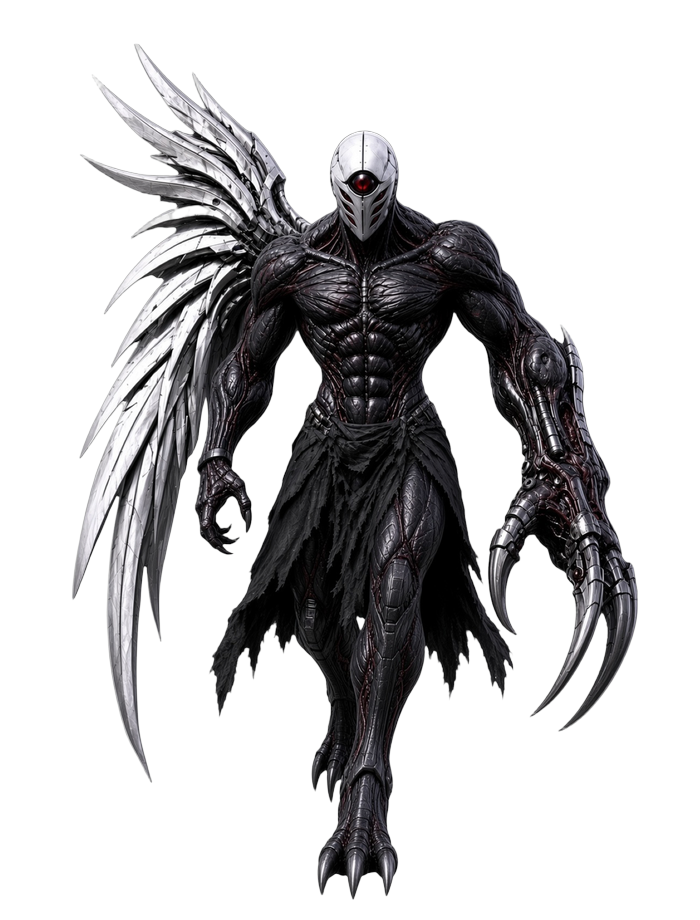
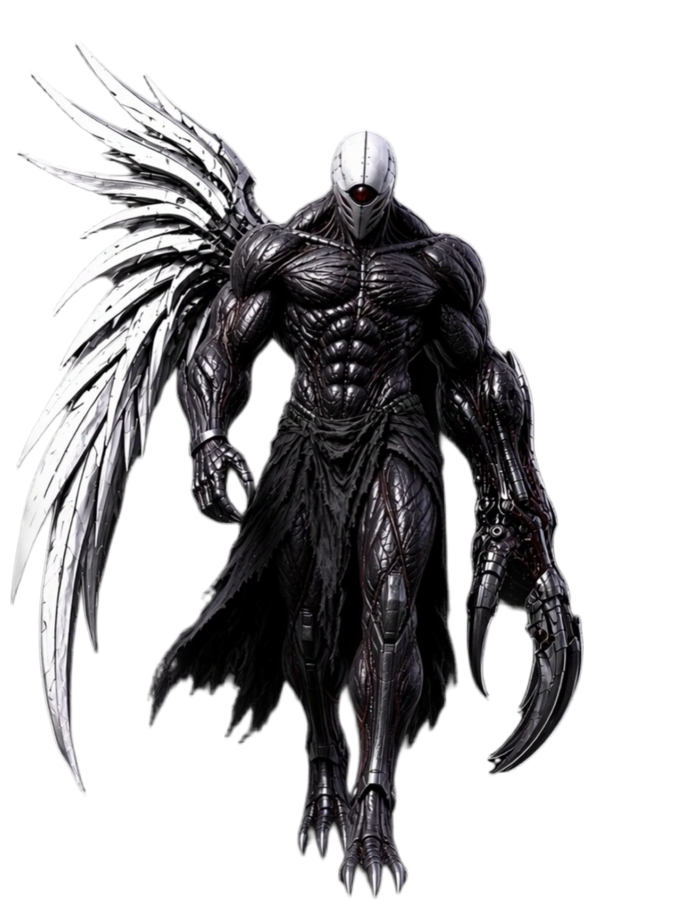
Replace GABRIEL south walk 3 frames + east/west attack images, switch south walk to a ping-pong animation cycle
- south walk (walk_south_1/2/3.png): new source art, landmark-matched
  (head/feet anchors) to the previous south walk's own on-canvas size so
  the swap introduces no size/anchor jump; south_idle/south_attack/
  south_defense are untouched per instruction.
- south walk animation now cycles 1->2->3->2->1->2->3->2->1... (ping-pong)
  instead of the old 1->2->3->1 wrap-around; frame interval unchanged;
  north/east/west walk cycles untouched.
- east/west attack release frames (attack_east_release.png,
  attack_west_release.png): new source art, landmark-matched to each old
  image's own body span/anchor (not raw bbox) since the new art's wing/
  claw proportions differ; attack timing/hitbox/damage/AI/direction logic
  is unchanged, only the two image files were replaced.
- No AI-generated/regenerated imagery and no left-right mirroring used for
  either new attack image; each keeps its own dedicated source, verified
  against the pre-existing orientation.

diff --git a/game.js b/game.js
@@ -4309,11 +4309,13 @@
     const key = DIR_TO_BOSS_KEY[boss.dir]; // north | south | east | west
     if (key === 'south') {
       if (!boss.moving) return 'south_idle';
-      // 3-frame cycle — same WALK_FRAME_PERIOD_MS per frame throughout.
-      const frame = Math.floor(now / WALK_FRAME_PERIOD_MS) % 3;
-      if (frame === 0) return 'walk_south_1';
-      if (frame === 1) return 'walk_south_2';
-      return 'walk_south_3';
+      // SOUTH alone uses a ping-pong cycle (1->2->3->2->1->2->3->2->1...)
+      // rather than the plain 1->2->3->1 wrap-around the other directions
+      // use below — a period-4 step through [1,2,3,2], same
+      // WALK_FRAME_PERIOD_MS per step as every other direction.
+      const SOUTH_WALK_PINGPONG = [1, 2, 3, 2];
+      const step = Math.floor(now / WALK_FRAME_PERIOD_MS) % SOUTH_WALK_PINGPONG.length;
+      return `walk_south_${SOUTH_WALK_PINGPONG[step]}`;
     }
     if (key === 'north') {
       if (!boss.moving) return 'north_idle';

diff --git a/assets/boss/source/MANIFEST.md b/assets/boss/source/MANIFEST.md
@@ -498,3 +498,44 @@ Notes:
   given to the user) — necessarily an approximation given the wings'
   variable spread per pose, disclosed to the user rather than presented
   as exact.
+
+Batch 13 — SOUTH WALK 3-frame REPLACEMENT (`walk_south_1/2/3.png`) + EAST/WEST
+ATTACK release-frame REPLACEMENT (`attack_east_release.png`,
+`attack_west_release.png`), plus a SOUTH-only ping-pong walk-cycle change:
+
+- SOUTH WALK: 3 new source images (`assets/boss/source/south_walk2_frame1/2/3_raw.png`,
+  1130-1196 x 1736-1790, genuine straight alpha, no white-fringe cleanup
+  needed) replace the previous batch's `walk_south_1/2/3.png` one-for-one
+  (frame N of the new attachment set = `walk_south_N.png`, no reordering).
+  `south_idle.png`/`south_attack*`/`defense_*` are explicitly NOT touched —
+  `south_idle.png` still holds the PREVIOUS batch's frame-1 image, so IDLE
+  and the new WALK frame 1 are no longer byte-identical (an accepted,
+  explicitly-instructed seam, not an oversight).
+- Landmark-based scale/anchor, reusing the PREVIOUS batch's own target
+  constants (body span 770px, center_x=365, feet_bottom_y=899.5) so the
+  new art lands at the exact same on-canvas size as what it replaces.
+  Verified within 1px of target and of each other across all 3 frames.
+  Full measurements: `assets/boss/south_walk2_build_meta.json`.
+- Animation change: `bossFrameName()`'s SOUTH branch now cycles
+  1 -> 2 -> 3 -> 2 -> 1 -> 2 -> 3 -> 2 -> 1... (ping-pong, period 4 over
+  `[1,2,3,2]`) instead of the previous plain 1 -> 2 -> 3 -> 1 wrap-around —
+  SOUTH only; NORTH/EAST/WEST keep their original wrap-around cycles.
+  `WALK_FRAME_PERIOD_MS` (frame interval) itself is unchanged.
+- EAST/WEST ATTACK: 2 new source images (`assets/boss/source/
+  attack_east_release2_raw.png` 1017x2033, `attack_west_release2_raw.png`
+  925x1957) replace `attack_east_release.png`/`attack_west_release.png`.
+  Verified each new source's own claw/wing side matches its predecessor's
+  orientation (east: claw-right/wing-left; west: claw-left/wing-right) —
+  no flip used, each direction kept its own dedicated image.
+  Landmark-matched (head/feet, not raw bbox) to each OLD image's own
+  measured body span/anchor on the shared canvas, since the new art's
+  wing/claw proportions differ from the old art's. attack_east_release
+  needed the resized image's top ~25px (wing feather tips only) clipped to
+  fit the canvas without shrinking the body match; attack_west_release
+  needed no clipping. Verified within a few px of the old reference on
+  head_top_y/feet_bottom_y; head_center_x differs by ~4-12px, attributable
+  to the new head being tilted at a different angle in the new pose, not a
+  scale error. Full measurements: `assets/boss/attack_ew_release2_build_meta.json`.
+- Attack timing/hitbox/damage/range/duration/cooldown/AI/direction logic
+  in `game.js` is unchanged — only the two image files were replaced,
+  under their existing filenames.
